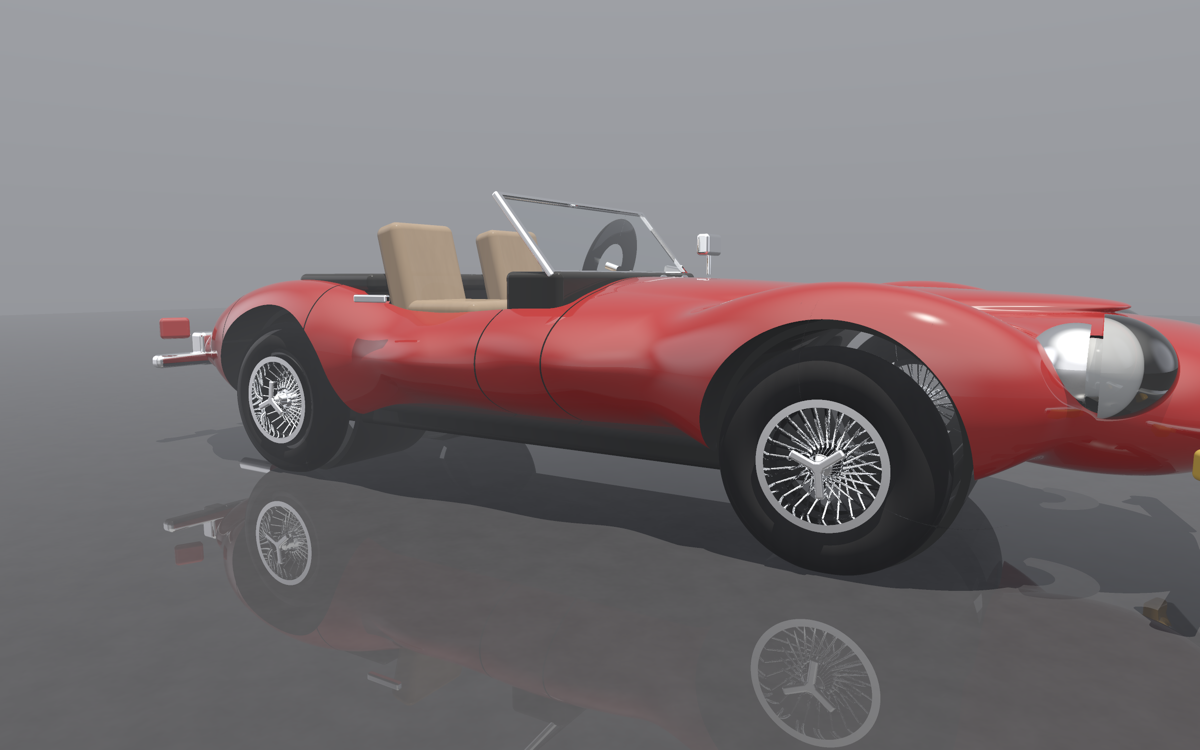
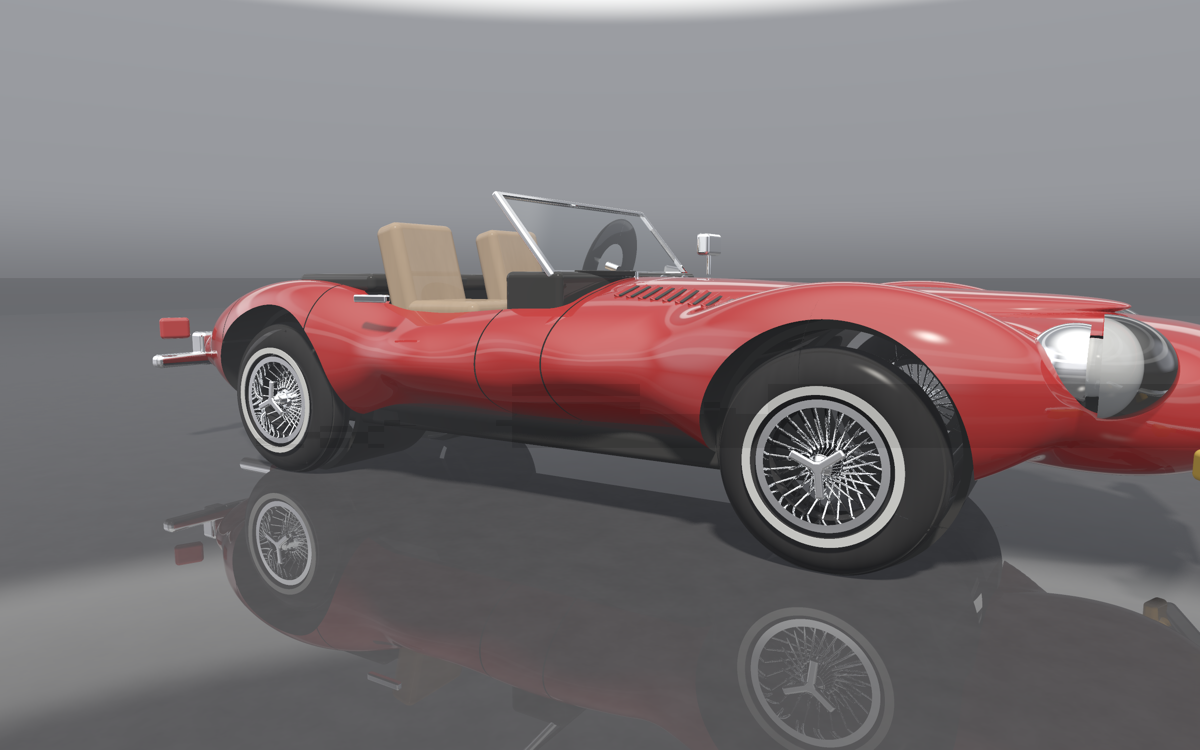
Roadster: bonnet louvres, wipers, plates; automotive light bars; soft shadows on primary hit only
Louvres and wipers sit on the blob body via a CPU evaluation of the same
SDF (bisection for height, finite-difference normal) instead of cutting
the body, which would overflow the interval list for grazing rays. Yellow
number plates front and rear. Tyres get circumferential tread grooves and
a thin whitewall ring.

brightStudioEnv gains two horizontal light bars and a darker horizon band
so glossy paint shows structured reflections. Soft shadows are now taken
only at the primary hit — eight shadow rays at every chrome/glass bounce
made threads long enough for the GPU to drop threadgroups.

Claude-Session: https://claude.ai/code/session_01XqCFp893vKVtE5yciGCKBn

diff --git a/RayTracer/SportsCar.swift b/RayTracer/SportsCar.swift
@@ -25,8 +25,8 @@ enum SportsCar {
 
     // MARK: - 차체
 
-    static func bodyBlob(_ mat: Int, inflate: Float = 0) -> CSG {
-        CSG.blob([
+    /// 차체 원소 — blob 과 CPU 표면 계산(`surfaceY`)이 같은 목록을 쓴다
+    static let bodyElements: [B] = [
             B.ell([ 19.8, 4.9, 0], [3.4, 1.9, 4.9], blend: 2.0),                 // 코 — 낮고 뾰족하게
             B.ell([ 12.0, 5.4, 0], [10.5, 2.5, 7.0], blend: 2.4),                // 보닛 — 앞으로 갈수록 낮게
             B.ell([  3.0, 5.7, 0], [6.5, 2.7, 7.9], blend: 2.4),                 // 카울
@@ -38,7 +38,48 @@ enum SportsCar {
             B.ell([ axleX, 5.4, -6.0], [5.6, 3.2, 2.3], blend: 1.6),
             B.ell([-axleX, 5.4,  6.0], [6.0, 3.2, 2.3], blend: 1.6),             // 뒤 펜더
             B.ell([-axleX, 5.4, -6.0], [6.0, 3.2, 2.3], blend: 1.6),
-        ], inflate: inflate, material: mat)
+    ]
+
+    static func bodyBlob(_ mat: Int, inflate: Float = 0) -> CSG {
+        CSG.blob(bodyElements, inflate: inflate, material: mat)
+    }
+
+    /// 셰이더와 같은 식으로 차체 SDF 를 CPU 에서 평가한다 — 루버·와이퍼를 **표면 위에 정확히** 얹기 위해.
+    /// 감으로 y 를 넣으면 곡면이라 반은 묻히고 반은 뜬다.
+    static func bodySDF(_ p: SIMD3<Float>) -> Float {
+        func ell(_ q: SIMD3<Float>, _ r: SIMD3<Float>) -> Float {
+            let k0 = simd_length(q / r), k1 = simd_length(q / (r * r))
+            return k0 * (k0 - 1) / max(k1, 1e-8)
+        }
+        func smin(_ a: Float, _ b: Float, _ k: Float) -> Float {
+            let h = min(max(0.5 + 0.5 * (b - a) / max(k, 1e-5), 0), 1)
+            return b + (a - b) * h - k * h * (1 - h)
+        }
+        var d: Float = 1e9
+        for e in bodyElements { d = smin(d, ell(p - e.p0, e.r0), e.blend) }
+        return d
+    }
+
+    /// (x, z) 위 차체 윗면의 y — 위에서 내려오며 처음 만나는 면을 이분법으로
+    static func surfaceY(_ x: Float, _ z: Float) -> Float {
+        var lo: Float = 2.5, hi: Float = 12
+        var y = hi
+        while y > lo && bodySDF([x, y, z]) > 0 { y -= 0.1 }      // 대충 찾고
+        hi = y + 0.1; lo = y
+        for _ in 0..<20 {                                         // 조인다
+            let mid = (lo + hi) / 2
+            if bodySDF([x, mid, z]) > 0 { hi = mid } else { lo = mid }
+        }
+        return (lo + hi) / 2
+    }
+
+    /// 표면 법선 (차분)
+    static func surfaceNormal(_ p: SIMD3<Float>) -> SIMD3<Float> {
+        let h: Float = 0.02
+        return simd_normalize(SIMD3<Float>(
+            bodySDF(p + [h, 0, 0]) - bodySDF(p - [h, 0, 0]),
+            bodySDF(p + [0, h, 0]) - bodySDF(p - [0, h, 0]),
+            bodySDF(p + [0, 0, h]) - bodySDF(p - [0, 0, h])))
     }
 
     static func body(_ m: Materials) -> CSG {
@@ -130,6 +171,54 @@ enum SportsCar {
         return CSG.unionAll(parts)
     }
 
+    // MARK: - 루버 · 와이퍼 · 번호판
+
+    /// 보닛 루버 하나 — 눌러 올린 얇은 살(도장색) 뒤에 검은 틈. 로컬: 표면 원점, +y 가 법선, 살은 x 방향으로 눕는다
+    static func louvre(_ m: Materials) -> CSG {
+        CSG.roundBox(half: [0.10, 0.045, 0.80], radius: 0.03, .translate(-0.03, 0.03, 0) * .rotateZ(-25), material: m.paint)
+      | CSG.roundBox(half: [0.07, 0.12, 0.72], radius: 0.02, .translate(0.08, -0.06, 0), material: m.black)
+    }
+
+    /// 루버 배치 — 보닛 벌지 양옆에 13개씩, 표면 높이와 법선을 SDF 로 잰다
+    static func louvrePlacements() -> [float4x4] {
+        var out: [float4x4] = []
+        for s: Float in [1, -1] {
+            for i in 0..<13 {
+                let x: Float = 3.6 + Float(i) * 0.5
+                let z: Float = 3.9 * s
+                let y = surfaceY(x, z)
+                let n = surfaceNormal([x, y, z])
+                out.append(.translate(x, y, z) * IronMan.alignY(n))
+            }
+        }
+        return out
+    }
+
+    /// 와이퍼 둘 — 카울 위, 윈드스크린 밑에 눕혀 놓는다. 암(크롬 검정) + 고무 날
+    static func wipers(_ m: Materials) -> CSG {
+        var parts: [CSG] = []
+        for (z0, dir) in [(-4.6, 1.0), (0.6, 1.0)] as [(Float, Float)] {
+            let x: Float = 2.1
+            let y = surfaceY(x, z0) + 0.12
+            let arm = float4x4.translate(x, y, z0) * .rotateY(-8 * dir)
+            parts.append(CSG.roundBox(half: [0.07, 0.06, 1.9], radius: 0.03, arm * .translate(0, 0.08, 1.9), material: m.black))
+            parts.append(CSG.roundBox(half: [0.05, 0.10, 1.75], radius: 0.02, arm * .translate(0.12, 0.02, 2.0), material: m.rubber))
+            parts.append(CSG.cylinder(.translate(x, y - 0.05, z0) * .scale(0.16, 0.14, 0.16), material: m.chrome))  // 피벗
+        }
+        return CSG.unionAll(parts)
+    }
+
+    /// 번호판 — 앞은 범퍼 아래 브래킷, 뒤는 오버라이더 사이. 1960년대 영국식 흰 글자/검은 판은
+    /// 글자를 못 새기니 노란 판에 검은 테두리로 "판" 으로만 읽히게 한다
+    static func plates(_ m: Materials, plate: Int) -> CSG {
+        let rear = CSG.roundBox(half: [0.06, 0.62, 2.35], radius: 0.04, .translate(-23.05, 5.65, 0) * .rotateZ(6), material: plate)
+                 | CSG.roundBox(half: [0.04, 0.50, 2.20], radius: 0.03, .translate(-23.12, 5.65, 0) * .rotateZ(6), material: m.black)
+        let front = CSG.roundBox(half: [0.06, 0.60, 2.35], radius: 0.04, .translate(22.85, 3.15, 0) * .rotateZ(-8), material: plate)
+                  | CSG.roundBox(half: [0.04, 0.48, 2.20], radius: 0.03, .translate(22.92, 3.15, 0) * .rotateZ(-8), material: m.black)
+                  | CSG.roundBox(half: [0.5, 0.12, 0.3], radius: 0.05, .translate(22.3, 3.75, 0), material: m.black)   // 브래킷
+        return rear | front
+    }
+
     static func glassParts(_ m: Materials) -> CSG {
         let ws = CSG.roundBox(half: [0.06, 1.9, 5.65], radius: 0.05,
                               .translate(0.15, 10.35, 0) * .rotateZ(40), material: m.glass)
@@ -166,7 +255,14 @@ enum SportsCar {
 
     /// 로컬: 축 = z, 바깥면 = +z
     static func wheel(_ m: Materials) -> CSG {
-        let tire = CSG.torus(.rotateX(90) * .scale(2.55, 2.55, 2.55) * .scale(1, 0.92, 1), material: m.rubber)
+        // 타이어 — 토러스에서 얇은 토러스 셋을 빼 원주 방향 트레드 홈, 옆면에 가는 화이트월 띠
+        var tire = CSG.torus(.rotateX(90) * .scale(2.55, 2.55, 2.55) * .scale(1, 0.92, 1), material: m.rubber)
+        for dz in [-0.45, 0.0, 0.45] as [Float] {
+            tire = tire - CSG.torus(.translate(0, 0, dz) * .rotateX(90) * .scale(3.35, 3.35, 3.35) * .scale(1, 0.03, 1)
+                                    * .scale(1, 1, 1), material: m.black)
+        }
+        let whitewall = CSG.cylinder(.translate(0, 0, 0.95) * .rotateX(90) * .scale(2.35, 0.02, 2.35), material: m.lamp)
+                      - CSG.cylinder(.translate(0, 0, 0.95) * .rotateX(90) * .scale(2.10, 0.1, 2.10), material: m.lamp)
         let rim = CSG.cylinder(.rotateX(90) * .scale(1.95, 0.85, 1.95), material: m.chrome)
                 - CSG.cylinder(.rotateX(90) * .scale(1.72, 1.2, 1.72), material: m.chrome)
         let hub = CSG.lathe([(-0.6, 0.55), (0.2, 0.62), (0.6, 0.45), (0.9, 0.35), (1.15, 0.12)],
@@ -177,7 +273,7 @@ enum SportsCar {
             ears.append(CSG.roundBox(half: [0.55, 0.14, 0.16], radius: 0.08,
                                      .translate(0, 0, 1.0) * .rotateZ(Float(k) * 120) * .translate(0.35, 0, 0), material: m.chrome))
         }
-        return CSG.unionAll([tire, rim, hub] + ears)
+        return CSG.unionAll([tire, whitewall, rim, hub] + ears)
     }
 
     static func spoke(_ m: Materials) -> CSG {

diff --git a/RayTracer/Scene.swift b/RayTracer/Scene.swift
@@ -581,6 +581,7 @@ final class CSGScene {
             amber:   addMaterial([0.95, 0.55, 0.08], gloss: 0.9),
             red:     addMaterial([0.70, 0.05, 0.05], gloss: 0.9))
         let floor = addMaterial([0.06, 0.06, 0.065], gloss: 0.55, grain: 0.15)          // 전시장 검은 대리석
+        let plate = addMaterial([0.93, 0.82, 0.18], gloss: 0.4)                         // 번호판
 
         objects = [
             CSG.box(.scale(200, 0.2, 200), material: floor),   // 0
@@ -591,10 +592,16 @@ final class CSGScene {
             SportsCar.wheel(m),                                // 5 ×4
             SportsCar.spoke(m),                                // 6 ×192
             SportsCar.underbody(m),                            // 7
+            SportsCar.louvre(m),                               // 8 ×26
+            SportsCar.wipers(m),                               // 9
+            SportsCar.plates(m, plate: plate),                 // 10
         ]
         placements = [Placement(objectIndex: 0, transform: .translate(0, -0.2, 0)),
-                      Placement(objectIndex: 7, transform: .identity)]
+                      Placement(objectIndex: 7, transform: .identity),
+                      Placement(objectIndex: 9, transform: .identity),
+                      Placement(objectIndex: 10, transform: .identity)]
         placements += (1...4).map { Placement(objectIndex: $0, transform: .identity) }
+        placements += SportsCar.louvrePlacements().map { Placement(objectIndex: 8, transform: $0) }
         for w in SportsCar.wheelPlacements() {
             placements.append(Placement(objectIndex: 5, transform: w))
             placements += SportsCar.spokeLocal().map { Placement(objectIndex: 6, transform: w * $0) }
@@ -606,10 +613,12 @@ final class CSGScene {
         focusHalfHeight = 6.5
         focusElevation = 0.12
         minElevation = 0.03
-        environment = .brightStudio    // 캔디 도장은 비칠 것이 있어야 산다
-        exposure = 1.3
+        environment = .brightStudio    // 캔디 도장은 비칠 것이 있어야 산다 — 수평 라이트 바가 옆구리에 흐른다
+        exposure = 1.25
         samplesPerPixel = 4
         maxBounces = 4
+        shadowSoftness = 0.05          // 면광원 — 바닥의 접지 그림자가 부드러워야 차가 놓인 것으로 읽힌다
+        sunDirection = simd_normalize(SIMD3<Float>(0.3, 0.9, 0.55))
     }
 
     // MARK: - 안경 · 썬글라스 (제품 사진)

diff --git a/.claude/skills/csg-scene/SKILL.md b/.claude/skills/csg-scene/SKILL.md
@@ -277,6 +277,13 @@ User-Agent 를 붙일 것. 받은 뒤에는 치수 비율(전고 대비 창 띠 
 - 헤드라이트 보울은 튀어나온 구가 아니라 **파낸 반구**(구 − 앞쪽 구) 위에 유리 블리스터
 - 와이어 휠: 타이어 토러스 + 크롬 림(원통 − 원통) + 허브 회전체가 오브젝트 하나, 스포크는 원기둥 하나를
   휠 로컬 좌표에서 두 줄 × 24개로 계산한 뒤 **휠 배치 변환 × 스포크 변환**으로 192번 인스턴싱
+- **곡면 위에 얹는 소품(루버·와이퍼)은 blob 에 구멍을 파지 말고 별도 오브젝트로** — 보닛을 스치는 레이가 홈 여러 개를
+  지나며 구간 한계를 넘긴다. 높이는 `SportsCar.surfaceY` 처럼 **같은 SDF 를 CPU 에서 이분법**으로 풀어 잰다.
+  감으로 넣으면 곡면이라 반은 묻히고 반은 뜬다. 법선(`surfaceNormal`)으로 기울기까지 맞춘다
+- **차의 사실감은 환경**이다: `brightStudioEnv` 의 수평 라이트 바(dir.y ≈ 0.36, 0.62)가 옆구리에 반사선을 흘린다.
+  원형 소프트박스만으로는 반사가 점점이 흩어진다
+- 소프트 섀도는 **첫 히트에서만** (`shadeSurface(…, shadowSoft:)`). 크롬·유리 바운스마다 8개씩 쏘면 스레드가 죽어
+  검은 타일이 남는다
 
 ## 크리스털 · 유리 인스턴싱 (샹들리에 — `Chandelier.swift`)
 
